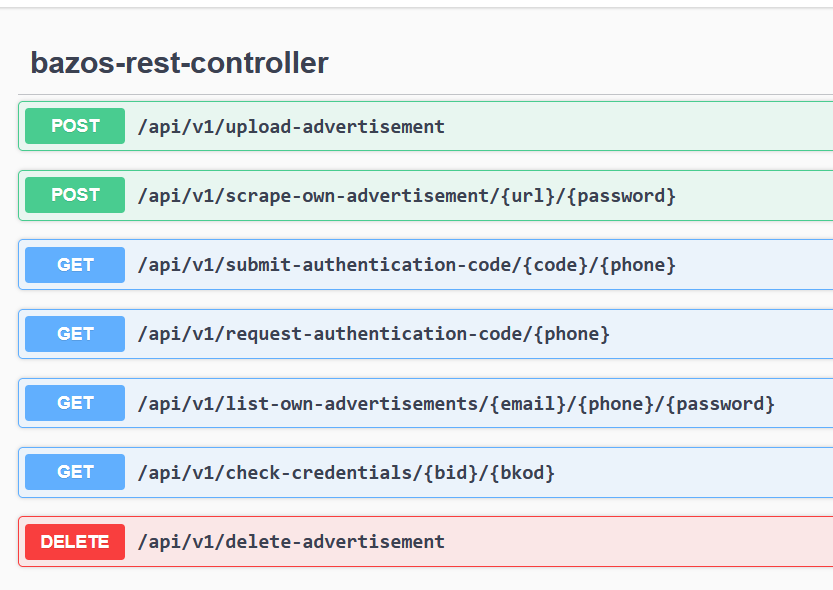
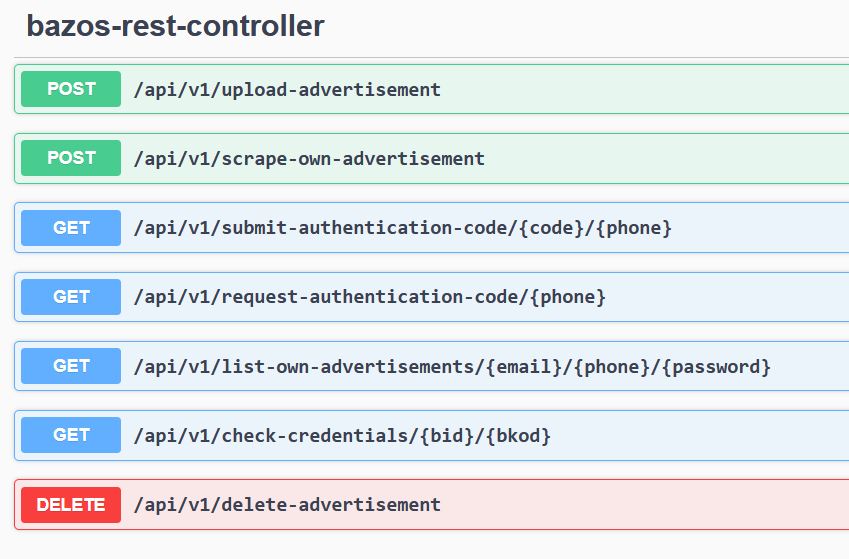
Corrected the scrape-own-advertisement header

Changed region(s): [[0.0, 0.0, 1.0, 0.9732]]

diff --git a/src/main/java/com/jackmckenzie/bazos/restserver/controller/BazosRestController.java b/src/main/java/com/jackmckenzie/bazos/restserver/controller/BazosRestController.java
@@ -63,7 +63,7 @@ public class BazosRestController {
         }
     }
 
-    @PostMapping("/scrape-own-advertisement/{url}/{password}")
+    @PostMapping("/scrape-own-advertisement")
     public ResponseEntity<Advertisement> scrapeOwnAdvertisement(String url, String password) throws BazosException {
         try {
             Advertisement advertisement = bazosScraper.scrapeOwnAdvertisement(url, password);

diff --git a/README.md b/README.md
@@ -1,4 +1,4 @@
-# Bazos.cz REST Api 0.8.0
+# Bazos.cz REST Api 0.8.1
 This is a REST API for interacting with bazos.cz
 
 ## Domain model
